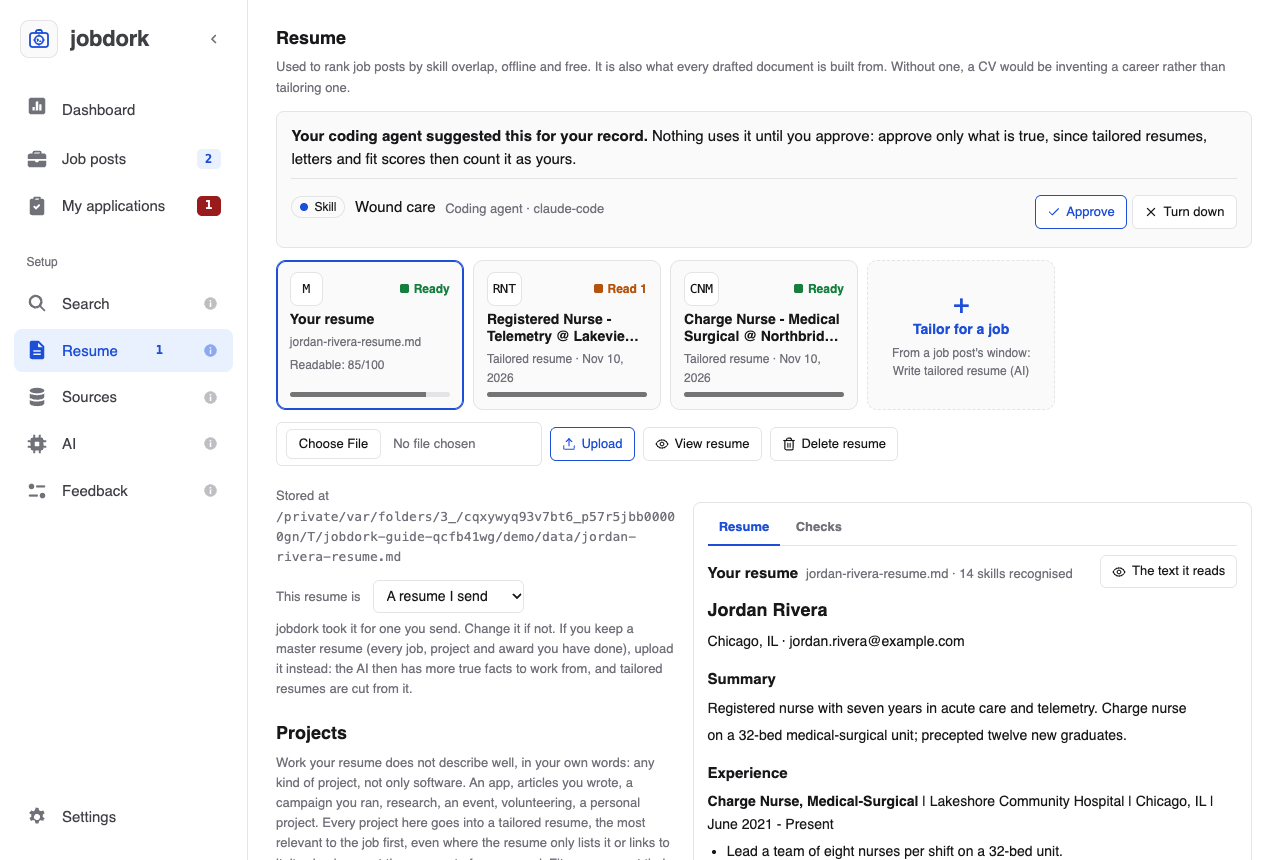
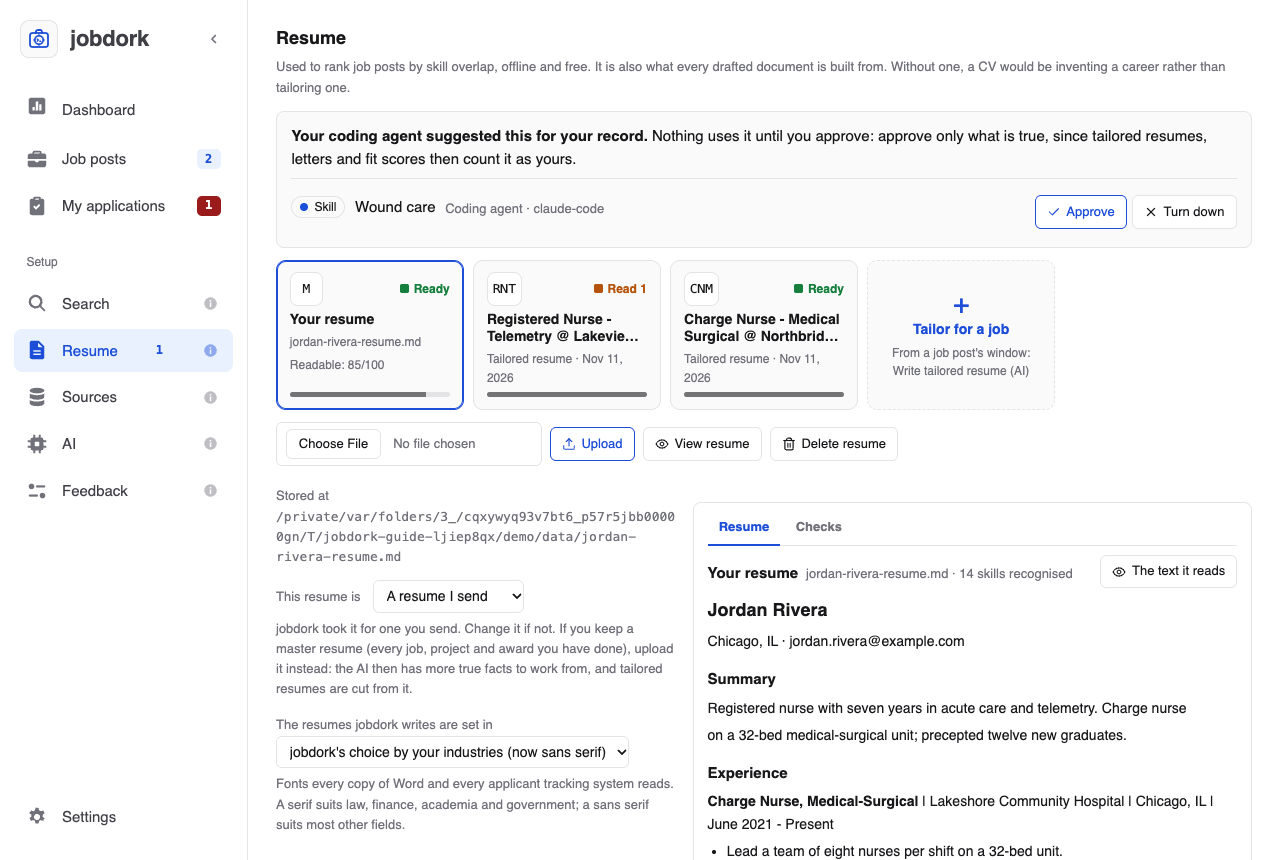
docs: release prep: writing tools read the resume you sent, one stock list, docs caught up (see docs/changes/release-prep-follow-ups.md)

Changed region(s): [[0.2188, 0.8163, 0.5312, 1.0], [0.3438, 0.6047, 0.375, 0.6349]]

diff --git a/jobdork/ai/prep.py b/jobdork/ai/prep.py
@@ -40,6 +40,7 @@ from pathlib import Path
 
 from ..core import telemetry
 from ..writing import humanize
+from ..writing.gates import STOCK  # one list of stock phrases, the cover letter's too
 from . import guard
 from .llm import MAX_ADVERT, MAX_RESUME, LLMError, Settings, _fenced, complete_json
 from .tools import _DATA, _FACTS
@@ -58,12 +59,6 @@ class Field:
     hint: str = ""
 
 
-# Stock phrases a reader sees through, from the prompt pack's lists and the
-# humanizer's: refused in everything written here.
-STOCK = ("passionate", "team player", "excited about this opportunity",
-         "excited to apply", "synergy", "leverage", "dynamic", "pick your brain",
-         "i really enjoyed learning about the role", "thank you for your time",
-         "seeking opportunities", "go-getter", "results-driven")
 
 
 def stock_phrases(text: str) -> list[str]:
@@ -637,7 +632,9 @@ def run(cfg, store, kind: str, uid: str = "", given: dict | None = None,
     given = form_fields(kind, given or {})
     settings = _settings(cfg)
     row = _row(store, uid) if spec.post else None
-    resume_text = _resume_text(cfg)
+    # For a job post with the resume you sent uploaded, that one (writer):
+    # a thank-you or a negotiation goes by what the employer has.
+    resume_text = _resume_text(cfg, store, uid) if spec.post else _resume_text(cfg)
     if progress:
         progress(f"{settings.label}: {spec.label.lower()}"
                  + (f" for {row['title']} at {row['company']}" if row is not None else ""))

diff --git a/jobdork/writing/gates.py b/jobdork/writing/gates.py
@@ -218,10 +218,13 @@ def resume_writing(draft: str) -> Gate:
 
 # Phrases a hiring manager has read a thousand times: they say nothing, and
 # mark a letter as a template (asked 2026-11-09, from the prompt pack).
+# One list for every check that refuses them: the cover letter's and the
+# recruiter message's here, and the writing tools' (ai/prep.py).
 STOCK = ("passionate", "team player", "excited about this opportunity", "excited to apply",
          "i am writing to apply", "i am writing to express", "perfect fit", "dream job",
          "go-getter", "results-driven", "think outside the box", "hit the ground running",
-         "pick your brain")
+         "pick your brain", "synergy", "leverage", "dynamic", "seeking opportunities",
+         "i really enjoyed learning about the role", "thank you for your time")
 
 
 def stock_phrases(draft: str) -> Gate:

diff --git a/tests/test_humanize.py b/tests/test_humanize.py
@@ -20,8 +20,8 @@ from jobdork.writing import gates, humanize  # noqa: E402
 
 # Dashes that are data, not prose: counted, or matched in addresses.
 # Strings that are data, not wording: a pattern, or the stock phrases a
-# check refuses (prep.STOCK).
-DATA = {("gates.py", "—"), ("geo.py", "[-–—]"), ("prep.py", "leverage")}
+# check refuses (gates.STOCK).
+DATA = {("gates.py", "—"), ("gates.py", "leverage"), ("geo.py", "[-–—]")}
 
 
 def rules(text: str) -> set[int]:

diff --git a/docs/ARCHITECTURE.md b/docs/ARCHITECTURE.md
@@ -56,7 +56,7 @@ nothing below imports from `web/`.
 | `db/` | `store` (schema, upsert, status, AI outputs), `migrations` (numbered, forwards-only), `grouping` (copies of one job) |
 | `fetch/` | `http` (pacing, retries, circuit breaker — the only networking), `robots` (robots.txt, RFC 9309), one adapter per source (keyword searches: Workable, Himalayas, Kalibrr, Germany's employment agency, Arbeitnow, and with keys Adzuna and USAJOBS; employer boards on Greenhouse, Ashby, Lever, SmartRecruiters, Breezy, Workday, Oracle, Eightfold and Taleo; and an employer's own careers site, SuccessFactors career sites included), shared board helpers |
 | `search/` | `scan` (orchestration, rescreen), `screen` (every filter and the score), `dealbreakers` (plain words into patterns), `directory` (the built-in employer boards), `freshness` (how old a post is), `enrich` (full adverts), `discover` (an employer's board), `listing` (is it still open), `ownboard` (an Adzuna post the employer's board does not carry), `agency` (employer or recruiter), `credentials` (certifications a post asks for), `geo` (gazetteer, distance), `resume` (skills, fit), `master` (a master resume or the one you send), `readable` (whether a tracking system can read a resume file), `ats` (a job post's ATS match) |
-| `ai/` | `llm` (providers, keys in memory, and a coding agent as the writer: its answers in, its brief out), `judging`, `guard` (hallucination checks), `writer` (AI cover letter, tailored resume, interview prep, recruiter message, resume review), `tools` (the model as an editor for resume and letter), `suggest` (job titles from the resume, in setup) |
+| `ai/` | `llm` (providers, keys in memory, and a coding agent as the writer: its answers in, its brief out), `judging`, `guard` (hallucination checks), `writer` (AI cover letter, tailored resume, interview prep, recruiter message, resume review), `prep` (the eight writing and preparing tools: tailoring report, interview story, thank-you, offer, outreach, LinkedIn, changing field, 30-day plan), `tools` (the model as an editor for resume and letter), `suggest` (job titles from the resume, in setup) |
 | `writing/` | `generate` (`claude -p` drafts), `resume_doc` (the tailored resume's template), `length` (its page budget, after Indeed), `gates` (scripted checks), `style` (how a resume's lines are written), `humanize` (signs of AI writing) |
 | `web/` | `serve` (HTTP), `api` (every command for the page, metrics), `live` (runs and events), `session` (token, port), `app` (the desktop window and its bridge; closing it ends the process, and asks first with a scan scheduled; a second start brings the open window to the front), `agent` (jobdork's tools for a coding agent: briefs, saving its answers through the checks, applications, the record, and when it last used them), `mcp` (those tools as an MCP server on stdio) |
 | `output/` | `render` (static HTML and JSON), `pdf` (a resume as a PDF), `docx` (the same as a Word file), `digest` (email) |
@@ -243,6 +243,18 @@ and given to the model as `<<MEASURED>>`, which the guard can quote. A check tha
 unchecked; it never blocks the output. Page reads are checked by the quote rule
 alone, with no extra call.
 
+**The checker reads the whole resume** (up to `guard.MAX_SOURCE`) and the
+work history; a total of years given to one field is rewritten as years of
+work in all (`llm.total_only`), and an overall opinion of fit ("meets the
+requirements") is not taken as a claim.
+
+**A flagged verdict is mended, not just marked** (`judging.rewrite`,
+`llm.rewrite`, on by default). A script takes out the reasons and concerns a
+flagged claim came from (traced by word overlap); a flagged summary is
+rewritten by the reader (`llm.rewrite_summary`). The result is checked
+again, and the version with fewer unsupported claims is kept; the other is
+recorded as `judge_draft`, outside the rate.
+
 **Another model checks than the one that wrote it** (`guard.checking`). One
 model marking its own work misses what it got wrong the same way twice. The
 order is the chosen checkers (`llm.checkers`), then the other readers, then
@@ -254,8 +266,8 @@ copy, so the guard's calls never change the label the output is recorded
 under.
 
 Each output is an `ai_outputs` row with its guard counts and your rating, which
-is what the Dashboard's hallucination rate, coverage and feedback are counted
-from.
+is what the Dashboard's hallucination rate (also by checker), coverage and
+feedback are counted from.
 
 ---
 

diff --git a/README.md b/README.md
@@ -93,19 +93,25 @@ still outstanding, is in the [changelog](docs/CHANGELOG.md).
   ([Coding agent](https://jessn-dev.github.io/jobDork/ai/#coding-agent)).
   It can judge posts (Job posts marks which ones each run judged, and sorts
   and filters by its score), write a cover letter, review your resume, and write a
-  tailored resume as a PDF and a Word file, held to Indeed's length advice
-  (one page up to ten years), interview prep and a recruiter message. A
-  second model checks each output, claim by claim, against your resume and
-  the advert, and anything unsupported is flagged: 2.9% of claims with the
-  recommended local model, measured on seven resumes in six fields
-  ([models compared](docs/AI-MODELS.md)). It never applies or sends for
-  you. [The AI page](https://jessn-dev.github.io/jobDork/ai/)
+  tailored resume as a PDF and a Word file (in a sans or serif face), held to
+  Indeed's length advice (one page up to ten years), interview prep (fifteen
+  likely questions, with STAR outlines) and a recruiter message. Eight more
+  tools help you prepare: a tailoring report, an interview story, a thank-you
+  email, offer negotiation, an outreach message, a LinkedIn headline and
+  About, changing field, and a 30-day search plan. A second model checks
+  each output, claim by claim, against your whole resume and the advert, and
+  anything unsupported is flagged: 2.9% of claims with the recommended local
+  model, measured on seven resumes in six fields
+  ([models compared](docs/AI-MODELS.md)). A flagged claim is then taken out
+  or rewritten, and checked again, before you see it. It never applies or
+  sends for you. [The AI page](https://jessn-dev.github.io/jobDork/ai/)
 - **Keeps track.** Statuses from *new* to *offer*, notes, a check for posts
   that have closed, scans on a schedule, notifications (a click opens
   jobdork), and an email digest.
   **My applications** keeps every job you applied to, by stage, with each
   status dated, the next step and its date, the contact, the resume and
-  letter you sent, and notes.
+  letter you sent (uploaded, and read by that job's AI tools), and notes. One
+  **Add a job post** form adds a post from its link, already applied or not.
   [My applications](https://jessn-dev.github.io/jobDork/applications/)
 - **Reaches past what it can read.** A **Search Google Jobs** link opens your
   search in Google's job results, and `jobdork dork` builds Google searches

diff --git a/docs/CHANGELOG.md b/docs/CHANGELOG.md
@@ -8287,23 +8287,6 @@ open; a digest arrives, and what arrived with it is what was not there before.
   kept in the keychain like a key; PRIVACY.md to say what leaves the
   computer (job titles, employers). Scheduled scans already run with the
   app closed, so they can send too.
-- **One "Add a job post" form, and the documents you sent** (asked
-  2026-11-09). Add a job post (Sources) and Track an application you sent
-  (My applications) read a link the same way: one form, with "I already
-  applied" and its date, in both places. A link that names the job but
-  carries no advert asks for the advert instead of storing an empty one.
-  The resume and cover letter you sent can be uploaded for the post's
-  "Documents sent", and its interview prep, recruiter message and AI tools
-  read the resume you sent.
-- **Writing and preparing, beyond the letter** (asked 2026-11-09): a
-  tailoring report beside the tailored resume (what the advert asks, what
-  you have and lack, what changed and why, what to prepare for), cover
-  letter rules (length, no stock phrases, nothing the resume says already),
-  interview prep with a story builder (situation, task, action, result),
-  a thank-you email after an interview, help with an offer, an outreach
-  message, a LinkedIn headline and About section to copy, career-change
-  positioning, a choice of resume font, and a 30-day search plan. Each
-  from your resume and the post only, checked as every AI output is.
 - **Sources: say why no employer boards are read.** With `sources.keyless`
   narrowed to sources that are not employer-board platforms (no workday,
   greenhouse…), `jobdork sources` says "0 built-in employer boards" without

diff --git a/docs/changes/release-prep-follow-ups.md b/docs/changes/release-prep-follow-ups.md
@@ -1,0 +1,20 @@
+## Changed — 2026-11-11 — The writing tools read the resume you sent, one list of stock phrases, and the docs caught up
+
+Follow-ups left until the one Add a job post form, the writing tools and
+the letter rules were all merged, to keep their pull requests apart.
+
+- **A job post's writing tools read the resume you sent** for it, when you
+  uploaded one (the tailoring report, interview story, thank-you email,
+  offer and outreach message), as its interview prep and recruiter message
+  already did; the tools with no job post read the resume set now
+  (`prep.run`, `writer._resume_text(cfg, store, uid)`).
+- **One list of stock phrases** (`gates.STOCK`): the cover letter's and
+  recruiter message's check and the writing tools' were two lists that
+  differed. Each now refuses every phrase either refused.
+- **Docs**: the README names the writing tools, interview prep's STAR
+  outlines, the resume's font, the mended verdicts and the documents you
+  sent; ARCHITECTURE.md the `prep` module, the checker reading the whole
+  resume and the rewrite of a flagged verdict; PRIVACY.md where the
+  documents you sent are kept. The changelog's backlog drops the one form
+  and the writing tools, both done. The Resume page's picture is retaken
+  with the font choice.

diff --git a/PRIVACY.md b/PRIVACY.md
@@ -22,7 +22,7 @@ Everything stays in folders on the machine jobdork runs on:
 | Job posts found, your statuses and notes, AI verdicts, run history, warnings and errors | `data/jobdork.db` |
 | Copies of the database, made before anything is deleted | `data/backups/` |
 | Your resume, as you uploaded it, and the projects and education you add | `data/` |
-| Cover letters and tailored resumes you ask for | `Documents/job-applications/` (in Docker, `data/documents/`) |
+| Cover letters and tailored resumes you ask for, and the resume and letter you sent for a job, if you upload them | `Documents/job-applications/` (in Docker, `data/documents/`) |
 | What a scheduled scan printed | `logs/scheduled-scan.log` |
 
 The desktop app keeps these in its own folder: `~/Library/Application
